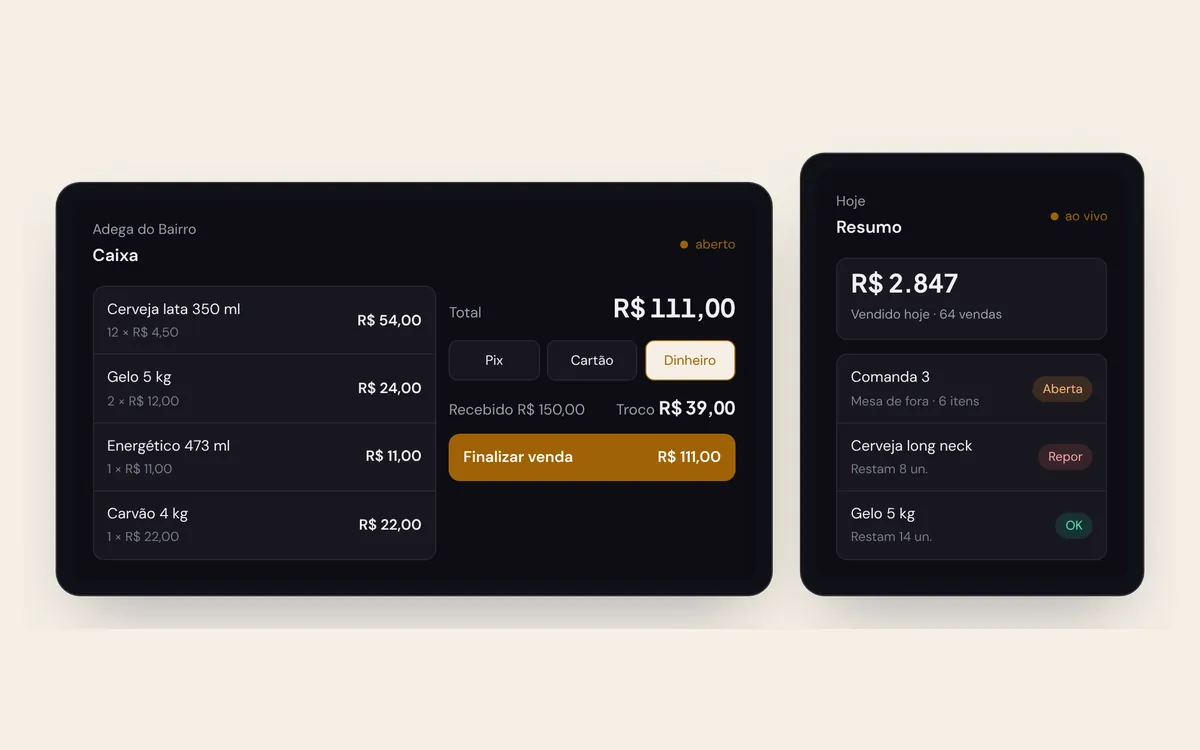
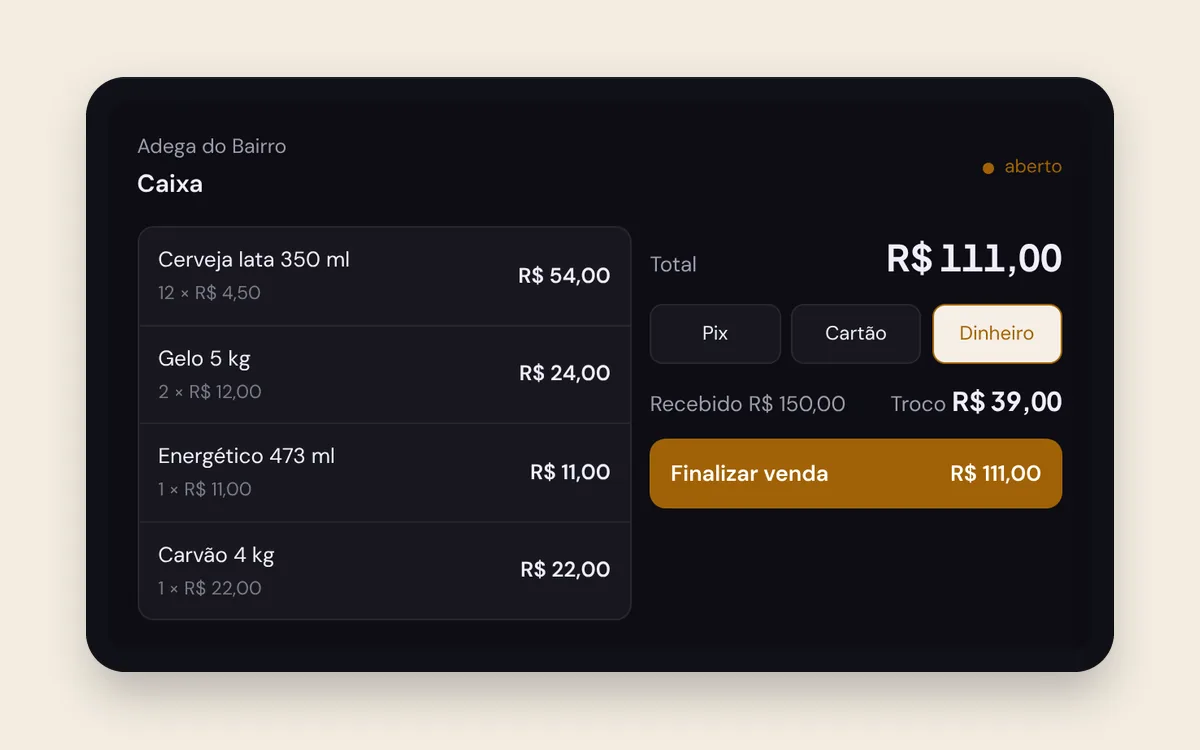
Capas dos sistemas maiores e legíveis (só a tela principal)
Claude-Session: https://claude.ai/code/session_011e8J5iVhRyvdzY5D7YiJG4

diff --git a/index.html b/index.html
@@ -136,7 +136,7 @@
   <p class="section-sub">Sistemas da FH Digital que já funcionam hoje. A gente configura, treina sua equipe e você começa na mesma semana.</p>
   <div class="services-grid">
     <a href="/ponto/" class="service-card">
-      <img class="card-capa" src="/imagens/capas/ponto.webp" alt="Exemplo de tela: Ponto FH" width="1200" height="750" loading="lazy">
+      <img class="card-capa" src="/imagens/capas/ponto.webp?v=2" alt="Exemplo de tela: Ponto FH" width="1200" height="750" loading="lazy">
       <div class="service-icon">🙂</div>
       <h3>Ponto FH</h3>
       <p>Ponto com reconhecimento facial no tablet, banco de horas, atrasos e planilha pronta para o contador. A partir de R$ 69/mês.</p>
@@ -144,7 +144,7 @@
       <span class="service-arrow">Ver o sistema →</span>
     </a>
     <a href="/comanda/" class="service-card">
-      <img class="card-capa" src="/imagens/capas/comanda.webp" alt="Exemplo de tela: Comanda FH" width="1200" height="750" loading="lazy">
+      <img class="card-capa" src="/imagens/capas/comanda.webp?v=2" alt="Exemplo de tela: Comanda FH" width="1200" height="750" loading="lazy">
       <div class="service-icon">🎟</div>
       <h3>Comanda FH</h3>
       <p>Comanda com QR, pedido pelo tablet da mesa, cozinha na tela e caixa com Pix, cartão e dinheiro. A partir de R$ 179/mês.</p>
@@ -152,7 +152,7 @@
       <span class="service-arrow">Ver o sistema →</span>
     </a>
     <a href="/barbearia/" class="service-card">
-      <img class="card-capa" src="/imagens/capas/barbearia.webp" alt="Exemplo de tela: Agenda FH" width="1200" height="750" loading="lazy">
+      <img class="card-capa" src="/imagens/capas/barbearia.webp?v=2" alt="Exemplo de tela: Agenda FH" width="1200" height="750" loading="lazy">
       <div class="service-icon">💈</div>
       <h3>Agenda FH</h3>
       <p>Agendamento online para barbearia, salão, manicure, pet shop e estética: o cliente marca pelo link e recebe o lembrete no WhatsApp. R$ 129/mês, sem implantação.</p>
@@ -160,7 +160,7 @@
       <span class="service-arrow">Ver o sistema →</span>
     </a>
     <a href="/adega/" class="service-card">
-      <img class="card-capa" src="/imagens/capas/adega.webp" alt="Exemplo de tela: Adega FH" width="1200" height="750" loading="lazy">
+      <img class="card-capa" src="/imagens/capas/adega.webp?v=2" alt="Exemplo de tela: Adega FH" width="1200" height="750" loading="lazy">
       <div class="service-icon">🍺</div>
       <h3>Adega FH</h3>
       <p>Caixa com Pix, cartão e dinheiro, estoque que baixa sozinho, comandas, delivery e faturamento do dia. R$ 129/mês.</p>
@@ -168,7 +168,7 @@
       <span class="service-arrow">Ver o sistema →</span>
     </a>
     <a href="/ordem-de-servico/" class="service-card">
-      <img class="card-capa" src="/imagens/capas/ordem-de-servico.webp" alt="Exemplo de tela: Ordem de Serviço FH" width="1200" height="750" loading="lazy">
+      <img class="card-capa" src="/imagens/capas/ordem-de-servico.webp?v=2" alt="Exemplo de tela: Ordem de Serviço FH" width="1200" height="750" loading="lazy">
       <div class="service-icon">🔧</div>
       <h3>Ordem de Serviço FH</h3>
       <p>Orçamento aprovado pelo link no WhatsApp, cliente acompanhando o conserto e painel do dono. R$ 129/mês, 15 dias grátis.</p>
@@ -176,7 +176,7 @@
       <span class="service-arrow">Ver o sistema →</span>
     </a>
     <a href="/distribuidora-de-gas-e-agua/" class="service-card">
-      <img class="card-capa" src="/imagens/capas/distribuidora-de-gas-e-agua.webp" alt="Exemplo de tela: sistema para distribuidora de gás e água" width="1200" height="750" loading="lazy">
+      <img class="card-capa" src="/imagens/capas/distribuidora-de-gas-e-agua.webp?v=2" alt="Exemplo de tela: sistema para distribuidora de gás e água" width="1200" height="750" loading="lazy">
       <div class="service-icon">🔥</div>
       <h3>Distribuidora de gás e água</h3>
       <p>Pedido de entrega com endereço salvo pelo telefone, taxa por bairro, troco pro motoboy, estoque e controle de caixa. R$ 129/mês.</p>
@@ -184,7 +184,7 @@
       <span class="service-arrow">Ver o sistema →</span>
     </a>
     <a href="/tabacaria/" class="service-card">
-      <img class="card-capa" src="/imagens/capas/tabacaria.webp" alt="Exemplo de tela: sistema para tabacaria" width="1200" height="750" loading="lazy">
+      <img class="card-capa" src="/imagens/capas/tabacaria.webp?v=2" alt="Exemplo de tela: sistema para tabacaria" width="1200" height="750" loading="lazy">
       <div class="service-icon">💨</div>
       <h3>Tabacaria</h3>
       <p>Estoque de essências e acessórios com aviso de reposição, venda no balcão, delivery com taxa por bairro e controle de caixa. R$ 129/mês.</p>
@@ -192,7 +192,7 @@
       <span class="service-arrow">Ver o sistema →</span>
     </a>
     <a href="/escolinha/" class="service-card">
-      <img class="card-capa" src="/imagens/capas/escolinha.webp" alt="Exemplo de tela: sistema para escolinha" width="1200" height="750" loading="lazy">
+      <img class="card-capa" src="/imagens/capas/escolinha.webp?v=2" alt="Exemplo de tela: sistema para escolinha" width="1200" height="750" loading="lazy">
       <div class="service-icon">⚽</div>
       <h3>Escolinha e cursos</h3>
       <p>Alunos e turmas, mensalidade com cobrança pronta no WhatsApp, recibo e chamada no celular do professor. R$ 129/mês.</p>
@@ -200,7 +200,7 @@
       <span class="service-arrow">Ver o sistema →</span>
     </a>
     <a href="/academia/" class="service-card">
-      <img class="card-capa" src="/imagens/capas/academia.webp" alt="Exemplo de tela: sistema para academia" width="1200" height="750" loading="lazy">
+      <img class="card-capa" src="/imagens/capas/academia.webp?v=2" alt="Exemplo de tela: sistema para academia" width="1200" height="750" loading="lazy">
       <div class="service-icon">💪</div>
       <h3>Academia e estúdio</h3>
       <p>Mensalidade com cobrança no WhatsApp do aluno, recibo, chamada por turma e aviso de quem faltou às últimas aulas. R$ 129/mês.</p>
@@ -208,7 +208,7 @@
       <span class="service-arrow">Ver o sistema →</span>
     </a>
     <a href="/cardapio/" class="service-card">
-      <img class="card-capa" src="/imagens/capas/cardapio.webp" alt="Exemplo de tela: FH Cardápio" width="1200" height="750" loading="lazy">
+      <img class="card-capa" src="/imagens/capas/cardapio.webp?v=2" alt="Exemplo de tela: FH Cardápio" width="1200" height="750" loading="lazy">
       <div class="service-icon">🛵</div>
       <h3>FH Cardápio</h3>
       <p>Cardápio digital com pedido online e Pix para delivery, lanchonete e açaí. Sem comissão por pedido. R$ 89/mês.</p>
@@ -224,7 +224,7 @@
   <p class="section-sub">Do anúncio ao sistema, entregamos o que precisa funcionar — para pequenas empresas, autônomos e lojas físicas em todo o Brasil.</p>
   <div class="services-grid">
     <a href="/servicos/google-ads.html" class="service-card">
-      <img class="card-capa" src="/imagens/capas/google-ads.webp" alt="Exemplo de tela: anúncio no Google" width="1200" height="750" loading="lazy">
+      <img class="card-capa" src="/imagens/capas/google-ads.webp?v=2" alt="Exemplo de tela: anúncio no Google" width="1200" height="750" loading="lazy">
       <div class="service-icon">📣</div>
       <h3>Google Ads</h3>
       <p>Campanhas no Google para atrair clientes que já procuram o que você vende. Foco em conversão e retorno real.</p>
@@ -232,7 +232,7 @@
       <span class="service-arrow">Saiba mais →</span>
     </a>
     <a href="/servicos/sites.html" class="service-card">
-      <img class="card-capa" src="/imagens/capas/sites.webp" alt="Exemplo de tela: site institucional" width="1200" height="750" loading="lazy">
+      <img class="card-capa" src="/imagens/capas/sites.webp?v=2" alt="Exemplo de tela: site institucional" width="1200" height="750" loading="lazy">
       <div class="service-icon">🌐</div>
       <h3>Criação de Sites</h3>
       <p>Sites rápidos, modernos e otimizados para pequenas empresas, autônomos e lojas físicas que querem presença digital de verdade.</p>
@@ -240,7 +240,7 @@
       <span class="service-arrow">Saiba mais →</span>
     </a>
     <a href="/servicos/landing-page.html" class="service-card">
-      <img class="card-capa" src="/imagens/capas/landing-pages.webp" alt="Exemplo de tela: landing page" width="1200" height="750" loading="lazy">
+      <img class="card-capa" src="/imagens/capas/landing-pages.webp?v=2" alt="Exemplo de tela: landing page" width="1200" height="750" loading="lazy">
       <div class="service-icon">🎯</div>
       <h3>Landing Pages</h3>
       <p>Páginas de alta conversão para capturar leads, lançar produtos ou divulgar serviços. Design focado em resultado.</p>
@@ -248,7 +248,7 @@
       <span class="service-arrow">Saiba mais →</span>
     </a>
     <a href="/servicos/meta-ads.html" class="service-card">
-      <img class="card-capa" src="/imagens/capas/meta-ads.webp" alt="Exemplo de tela: anúncio no Instagram" width="1200" height="750" loading="lazy">
+      <img class="card-capa" src="/imagens/capas/meta-ads.webp?v=2" alt="Exemplo de tela: anúncio no Instagram" width="1200" height="750" loading="lazy">
       <div class="service-icon">📱</div>
       <h3>Meta Ads</h3>
       <p>Anúncios no Instagram e Facebook para alcançar seu público ideal e gerar vendas e contatos todos os dias.</p>
@@ -256,7 +256,7 @@
       <span class="service-arrow">Saiba mais →</span>
     </a>
     <a href="/servicos/sistemas.html" class="service-card">
-      <img class="card-capa" src="/imagens/capas/sistemas-web.webp" alt="Exemplo de tela: sistema web" width="1200" height="750" loading="lazy">
+      <img class="card-capa" src="/imagens/capas/sistemas-web.webp?v=2" alt="Exemplo de tela: sistema web" width="1200" height="750" loading="lazy">
       <div class="service-icon">🏥</div>
       <h3>Sistemas Web</h3>
       <p>Sistemas de agendamento, cardápios digitais, dashboards e automações personalizadas para o seu negócio.</p>
@@ -264,7 +264,7 @@
       <span class="service-arrow">Saiba mais →</span>
     </a>
     <a href="/servicos/cardapio-digital.html" class="service-card">
-      <img class="card-capa" src="/imagens/capas/cardapio-digital.webp" alt="Exemplo de tela: cardápio digital" width="1200" height="750" loading="lazy">
+      <img class="card-capa" src="/imagens/capas/cardapio-digital.webp?v=2" alt="Exemplo de tela: cardápio digital" width="1200" height="750" loading="lazy">
       <div class="service-icon">🍔</div>
       <h3>Cardápio Digital</h3>
       <p>Cardápio online com carrinho, pedidos em tempo real e filtros por categoria. Perfeito para restaurantes e deliveries.</p>
